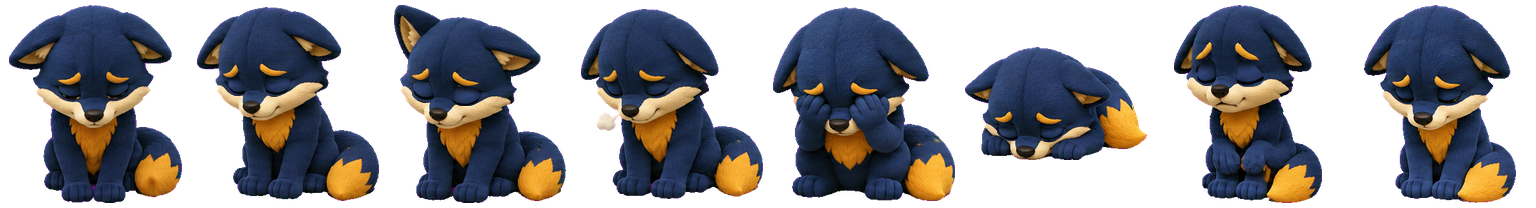
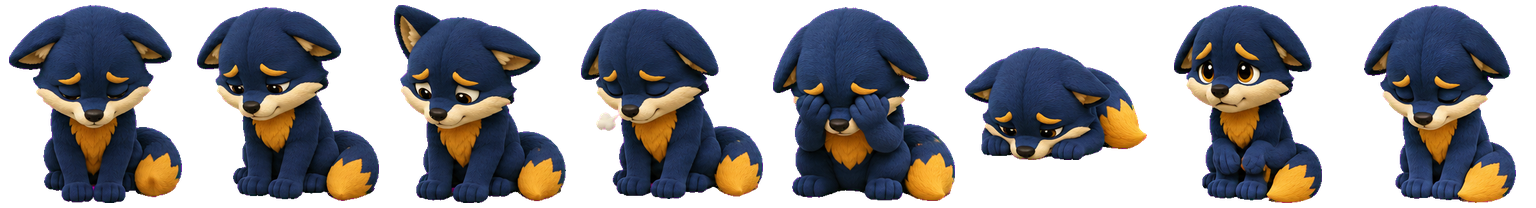
Restore the pose sources, which were overwritten by their own twins
Three of the four strips in art/source/poses were not the source rows they
are named after. They held the closed-eye twin instead. Measured against
the sheet: running-row7, review-row8 and failed-row5 each differed from
the row they claim to be, in the eye region of exactly the cells the twin
changes. Only waiting-row6 was intact.

The mechanism is a Save dialog. The returned twin gets saved over the
strip that was attached to the prompt, and the Finder leaves the original
beside it as "<name> copy.png". That is what those copies were: not
leftovers, but the only pristine sources left. Deleting them as junk,
which is what they look like, would have been the point of no return.

Nothing was lost. All three overwritten files were byte-identical to
twins already stored in art/blink, and the sheet itself is untouched, so
all four sources are re-cropped from it and verified pixel-identical to
their rows. The two copies are now redundant and gone.

The briefs gain a section saying where the returned file goes and why not
over the source. A twin passes every check a source would, so nothing
catches this on its own.

Claude-Session: https://claude.ai/code/session_01AesfRqwsxZpT3X483wij3U

diff --git a/art/source/look/BRIEF.md b/art/source/look/BRIEF.md
@@ -64,3 +64,15 @@ The pet holds a single still look cell for as long as the pointer is still,
 which is where it spends nearly all of its idle time and why it currently almost
 never blinks. With these rows, a blink during pointer watching becomes a ~110ms
 swap to the same index in the blink row and back. I will wire that up.
+
+## Save it under a new name
+
+The returned file goes in `art/blink/`, named for the row it is a twin of. Do
+not save it over the source strip in this folder, however tempting the Save
+dialog makes it. That has happened three times: the source is overwritten by its
+own twin, the Finder leaves the original beside it as a "copy", and the file
+named after the source row is now the closed-eye art. Nothing warns you, because
+a twin passes every check a source would.
+
+The sheet is the real source in the end, so this is recoverable by re-cropping
+the row. It is still an afternoon of confusion nobody needs.

diff --git a/art/source/poses/failed.md b/art/source/poses/failed.md
@@ -107,3 +107,15 @@ The sheet is 17 rows today (1536 x 3536): rows 0-8 states, 9-10 look directions,
 failed twin becomes row 17. Nothing in the app reads it until `blinkRow` in
 `AnimationCatalog.swift` says so, and that is a separate change from producing
 the art.
+
+## Save it under a new name
+
+The returned file goes in `art/blink/`, named for the row it is a twin of. Do
+not save it over the source strip in this folder, however tempting the Save
+dialog makes it. That has happened three times: the source is overwritten by its
+own twin, the Finder leaves the original beside it as a "copy", and the file
+named after the source row is now the closed-eye art. Nothing warns you, because
+a twin passes every check a source would.
+
+The sheet is the real source in the end, so this is recoverable by re-cropping
+the row. It is still an afternoon of confusion nobody needs.

diff --git a/art/source/poses/BRIEF.md b/art/source/poses/BRIEF.md
@@ -45,3 +45,15 @@ closed already. Leave them exactly as they are; their twin is themselves.
 
 It passes at 0.0%. If the returned file is not 1152 x 208 it was redrawn rather
 than edited, and it will not pass, so there is no point going further with it.
+
+## Save it under a new name
+
+The returned file goes in `art/blink/`, named for the row it is a twin of. Do
+not save it over the source strip in this folder, however tempting the Save
+dialog makes it. That has happened three times: the source is overwritten by its
+own twin, the Finder leaves the original beside it as a "copy", and the file
+named after the source row is now the closed-eye art. Nothing warns you, because
+a twin passes every check a source would.
+
+The sheet is the real source in the end, so this is recoverable by re-cropping
+the row. It is still an afternoon of confusion nobody needs.
